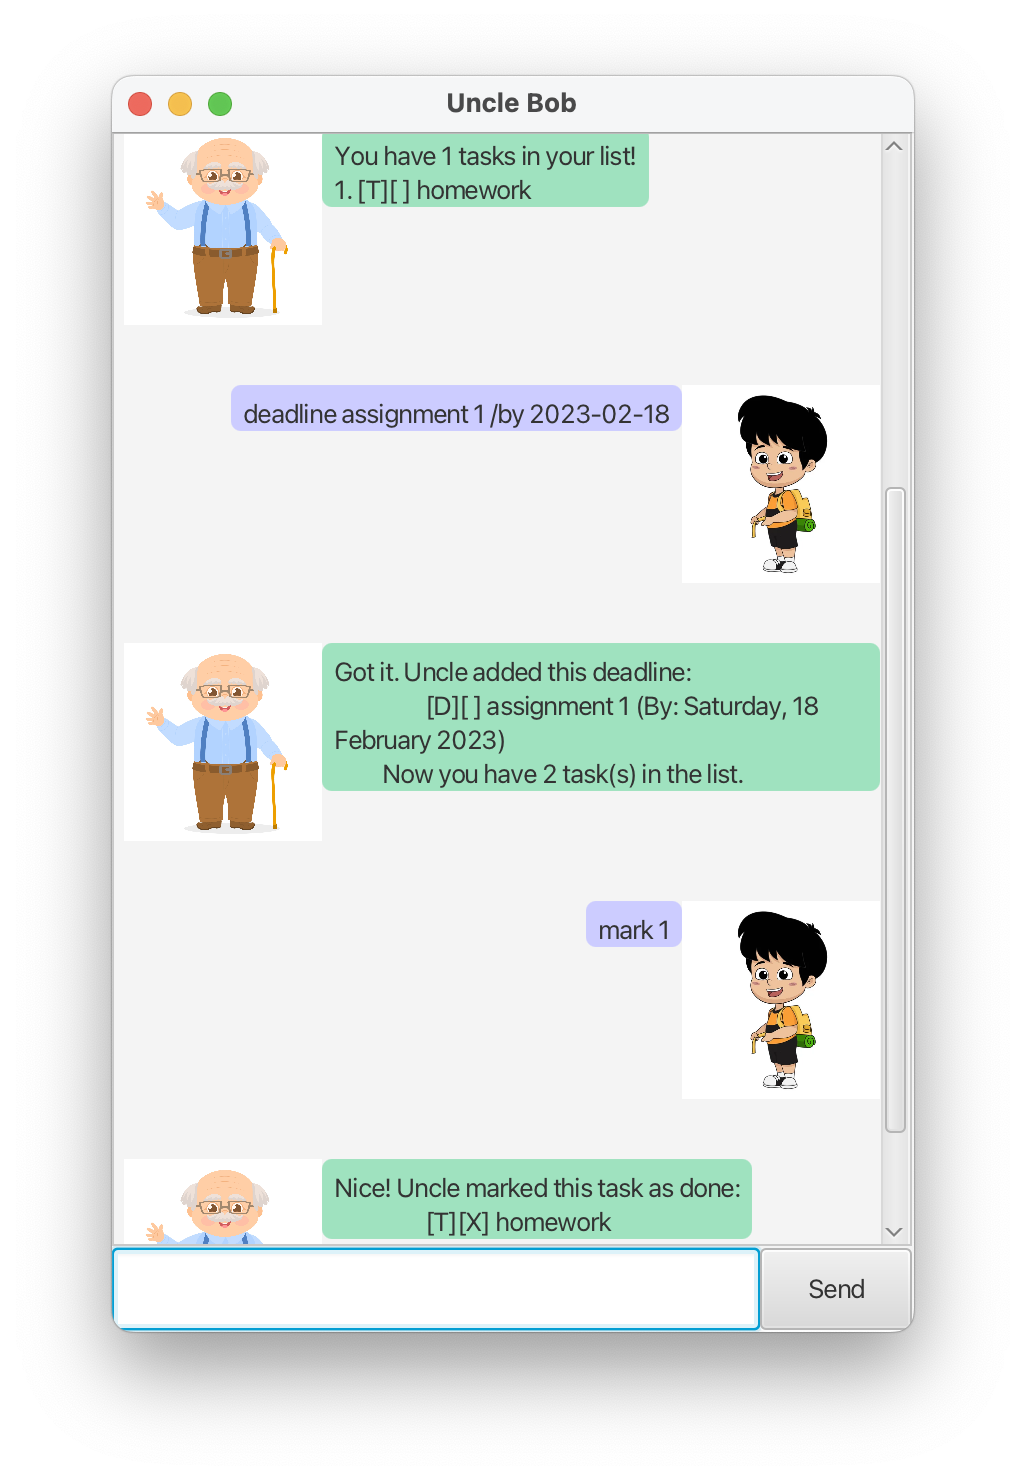
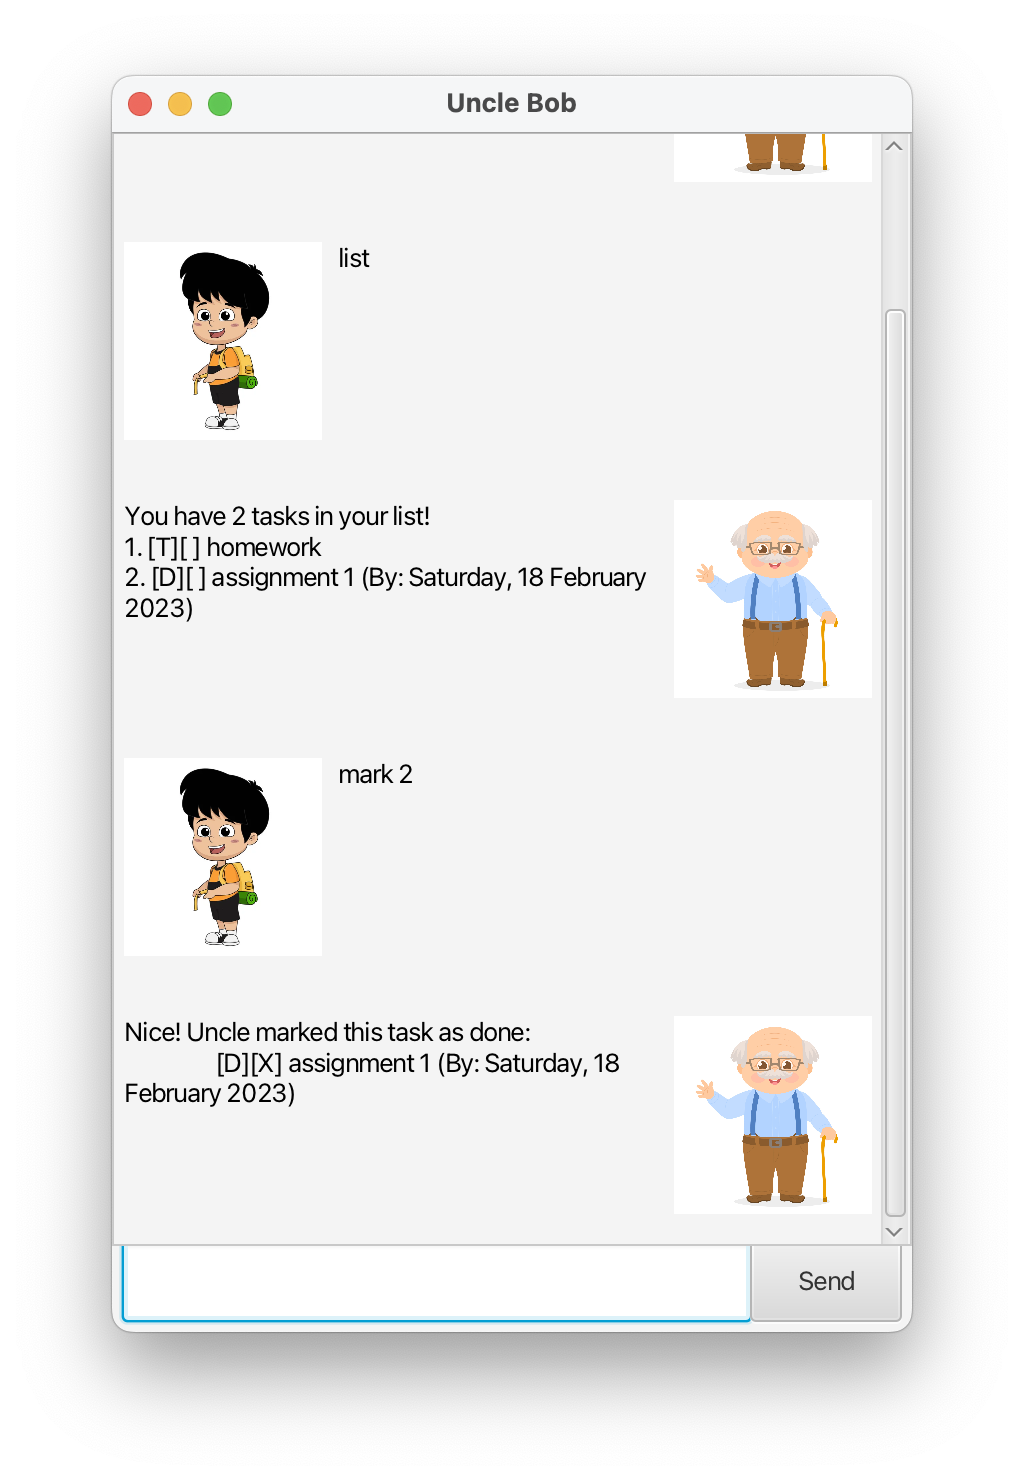
Refactor files

diff --git a/src/main/java/commands/EventCommand.java b/src/main/java/commands/EventCommand.java
@@ -48,27 +48,24 @@ public class EventCommand extends Command {
         String[] args = message.split("/from");
         if (args.length == 1 || args.length > 2) {
             throw new EventFormatException();
-        } else {
-            String desc = args[0].trim();
-            String[] duration = args[1].split("/to");
-            if (duration.length == 1 || duration.length > 2) {
-                throw new EventFormatException();
-            } else {
-                String start = duration[0].trim();
-                String end = duration[1].trim();
+        }
+        String desc = args[0].trim();
+        String[] duration = args[1].split("/to");
+        if (duration.length == 1 || duration.length > 2) {
+            throw new EventFormatException();
+        }
+        String start = duration[0].trim();
+        String end = duration[1].trim();
 
-                try {
-                    Task event = new Event(desc, LocalDate.parse(start), LocalDate.parse(end));
-                    tasks.addTasks(event);
-                    storage.appendToFile(tasks);
-                    return String.format(SUCCESS_MESSAGE, event, tasks.numTasks());
-                } catch (IOException e) {
-                    return e.getMessage();
-                } catch (DateTimeParseException e) {
-                    throw new EventFormatException();
-                }
-
-            }
+        try {
+            Task event = new Event(desc, LocalDate.parse(start), LocalDate.parse(end));
+            tasks.addTasks(event);
+            storage.appendToFile(tasks);
+            return String.format(SUCCESS_MESSAGE, event, tasks.numTasks());
+        } catch (IOException e) {
+            return e.getMessage();
+        } catch (DateTimeParseException e) {
+            throw new EventFormatException();
         }
     }
 }

diff --git a/src/test/java/storage/StorageStub.java b/src/test/java/storage/StorageStub.java
@@ -9,8 +9,8 @@ import task.TaskList;
  */
 public class StorageStub extends Storage {
 
-    private boolean simulateIoException;
-    private boolean appendToFileCalled;
+    private boolean isIoExceptionCalled;
+    private boolean isAppendToFileCalled;
     private TaskList taskListToLoad;
 
     /**
@@ -32,13 +32,13 @@ public class StorageStub extends Storage {
     public StorageStub(TaskList taskListToLoad, boolean simulateIoException) {
         super("stubFilePath");
         this.taskListToLoad = taskListToLoad;
-        this.simulateIoException = simulateIoException;
+        this.isIoExceptionCalled = simulateIoException;
     }
 
     @Override
     public void appendToFile(TaskList tasks) throws IOException {
-        this.appendToFileCalled = true;
-        if (simulateIoException) {
+        this.isAppendToFileCalled = true;
+        if (isIoExceptionCalled) {
             throw new IOException("Simulated IOException");
         }
         // For simplicity, do nothing in the stub implementation
@@ -50,6 +50,6 @@ public class StorageStub extends Storage {
     }
 
     public boolean wasAppendToFileCalled() {
-        return appendToFileCalled;
+        return isAppendToFileCalled;
     }
 }

diff --git a/src/main/java/commands/HelpCommand.java b/src/main/java/commands/HelpCommand.java
@@ -1,0 +1,27 @@
+package commands;
+
+import storage.Storage;
+import task.TaskList;
+/**
+ * Represents the command used to exit the application.
+ */
+public class HelpCommand extends Command {
+    private static final String HELP_MESSAGE = "Sorry, Uncle only understands the following commands:\n"
+            + "1. todo <description>: Adds a new todo task.\n"
+            + "2. deadline <description> /by <date>: Adds a new task with a deadline.\n"
+            + "3. event <description> /from <date> /to <date>: Adds a new event task.\n"
+            + "4. mark <task number>: Marks a task as done.\n"
+            + "5. unmark <task number>: Marks a task as undone.\n"
+            + "6. list: Lists all tasks.\n"
+            + "7. find <keyword>: Finds tasks containing the keyword.\n"
+            + "8. remind: Shows upcoming tasks for today.";
+    /**
+     * Executes the ExitCommand, exiting the application
+     * @param tasks   The TaskList representing the collection of tasks.
+     * @param storage The Storage object handling storage operations.
+     * @return
+     */
+    public String execute(TaskList tasks, Storage storage) {
+        return HELP_MESSAGE;
+    }
+}

diff --git a/src/main/java/parser/Parser.java b/src/main/java/parser/Parser.java
@@ -8,6 +8,7 @@ import commands.DeleteCommand;
 import commands.EventCommand;
 import commands.ExitCommand;
 import commands.FindCommand;
+import commands.HelpCommand;
 import commands.ListCommand;
 import commands.MarkCommand;
 import commands.RemindCommand;
@@ -22,8 +23,8 @@ import commands.UnmarkCommand;
  */
 public abstract class Parser {
     /**
-     * The parser takes in the user input and splits it into command and message.
-     * It uses a switch statement to determine the specific command type to create.
+     * Takes in the user input and splits it into command and message.
+     * Uses a switch statement to determine the specific command type to create.
      *
      * @param userInput User input string.
      * @return Returns the relevant Command based on the user input.
@@ -54,7 +55,7 @@ public abstract class Parser {
         case RemindCommand.COMMAND_WORD:
             return new RemindCommand();
         default:
-            return new ExitCommand();
+            return new HelpCommand();
         }
     }
 }

diff --git a/src/main/java/DialogBox.java b/src/main/java/DialogBox.java
@@ -7,10 +7,11 @@ import javafx.fxml.FXML;
 import javafx.fxml.FXMLLoader;
 import javafx.geometry.Pos;
 import javafx.scene.Node;
-import javafx.scene.control.Label;
 import javafx.scene.image.Image;
 import javafx.scene.image.ImageView;
 import javafx.scene.layout.HBox;
+import javafx.scene.text.Text;
+import javafx.scene.text.TextAlignment;
 
 /**
  * An example of a custom control using FXML.
@@ -19,7 +20,7 @@ import javafx.scene.layout.HBox;
  */
 public class DialogBox extends HBox {
     @FXML
-    private Label dialog;
+    private Text dialog;
     @FXML
     private ImageView displayPicture;
 
@@ -44,6 +45,9 @@ public class DialogBox extends HBox {
         ObservableList<Node> tmp = FXCollections.observableArrayList(this.getChildren());
         Collections.reverse(tmp);
         getChildren().setAll(tmp);
+        System.out.println(getChildren());
+        Text t = (Text) getChildren().get(0);
+        t.setTextAlignment(TextAlignment.LEFT);
         setAlignment(Pos.TOP_LEFT);
     }
 

diff --git a/src/main/java/storage/Storage.java b/src/main/java/storage/Storage.java
@@ -42,10 +42,12 @@ public class Storage {
             if (task instanceof Todo) {
                 textToAppend = task.getSymbol() + "/" + task.getStatus() + "/"
                         + task.getDescription() + "\n";
-            } else if (task instanceof Deadline) {
+            }
+            if (task instanceof Deadline) {
                 textToAppend = task.getSymbol() + "/" + task.getStatus() + "/" + task.getDescription()
                         + "/" + task.getBy() + "\n";
-            } else if (task instanceof Event) {
+            }
+            if (task instanceof Event) {
                 textToAppend = task.getSymbol() + "/" + task.getStatus()
                         + "/" + task.getDescription() + "/" + task.getStart() + "/" + task.getEnd() + "\n";
             }

diff --git a/src/main/java/commands/FindCommand.java b/src/main/java/commands/FindCommand.java
@@ -32,6 +32,6 @@ public class FindCommand extends Command {
         if (matchedTasks.isEmpty()) {
             return NO_TASK_FOUND_MESSAGE;
         }
-        return String.format(TASK_FOUND_MESSAGE, tasks.numTasks()) + "\n" + matchedTasks;
+        return String.format(TASK_FOUND_MESSAGE, matchedTasks.numTasks()) + "\n" + matchedTasks;
     }
 }
